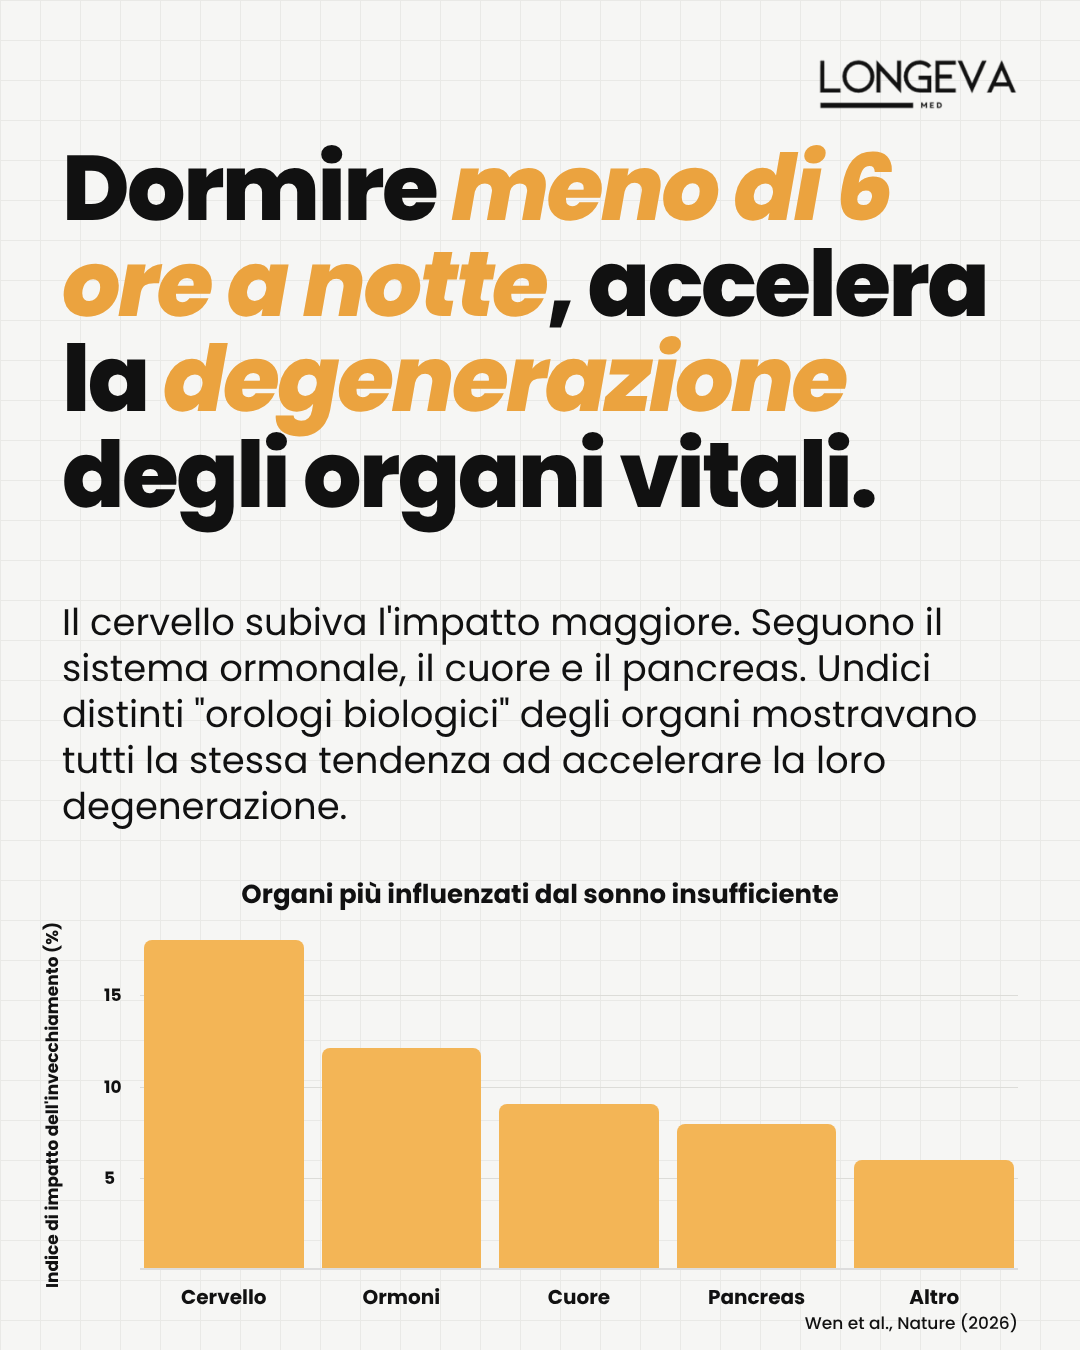
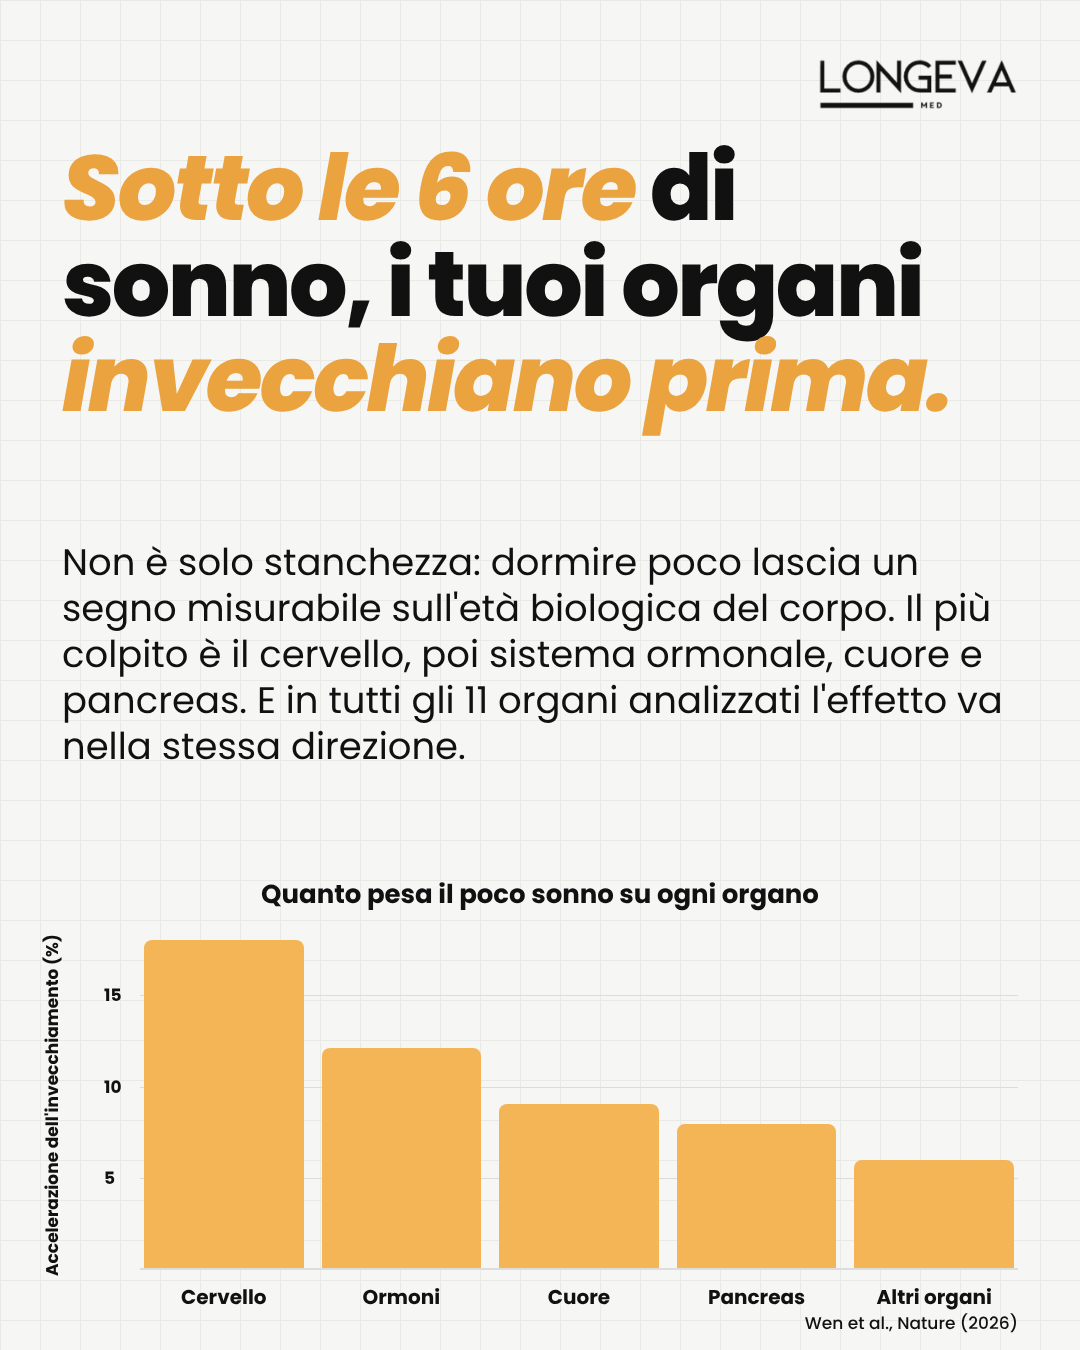
Rewrite copy of light sleep post
Claude-Session: https://claude.ai/code/session_015LaDtP4gz4C3ymXWeKsn2x

diff --git a/output/longevamed-sonno/post-chiaro.html b/output/longevamed-sonno/post-chiaro.html
@@ -15,7 +15,7 @@ body{font-family:'Poppins',sans-serif}
 .logo .u b{font-weight:500;font-size:9px;letter-spacing:2px}
 h1{position:absolute;left:62px;right:62px;top:140px;font-weight:800;font-size:92px;line-height:1.04;letter-spacing:-2.5px}
 h1 em{color:var(--goldtxt);font-style:italic}
-.lead{position:absolute;left:62px;right:62px;top:600px;font-size:37px;line-height:1.24;font-weight:400}
+.lead{position:absolute;left:62px;right:62px;top:540px;font-size:37px;line-height:1.24;font-weight:400}
 .ct{position:absolute;top:875px;left:0;right:0;text-align:center;font-size:26px;font-weight:700}
 .chart{position:absolute;left:140px;right:62px;top:940px;height:330px;border-bottom:2px solid #ddd}
 .grid{position:absolute;left:0;right:0;border-top:1px solid #dcdcd8}
@@ -29,10 +29,10 @@ h1 em{color:var(--goldtxt);font-style:italic}
 </style></head><body>
 <section class="slide" id="p">
   <img class="logo" src="logo-nero.png" alt="LONGEVA MED">
-  <h1>Dormire <em>meno di 6 ore a notte</em>, accelera la <em>degenerazione</em> degli organi vitali.</h1>
-  <p class="lead">Il cervello subiva l'impatto maggiore. Seguono il sistema ormonale, il cuore e il pancreas. Undici distinti "orologi biologici" degli organi mostravano tutti la stessa tendenza ad accelerare la loro degenerazione.</p>
-  <div class="ct">Organi più influenzati dal sonno insufficiente</div>
-  <div class="yt">Indice di impatto dell'invecchiamento (%)</div>
+  <h1><em>Sotto le 6 ore</em> di sonno, i tuoi organi <em>invecchiano prima.</em></h1>
+  <p class="lead">Non è solo stanchezza: dormire poco lascia un segno misurabile sull'età biologica del corpo. Il più colpito è il cervello, poi sistema ormonale, cuore e pancreas. E in tutti gli 11 organi analizzati l'effetto va nella stessa direzione.</p>
+  <div class="ct">Quanto pesa il poco sonno su ogni organo</div>
+  <div class="yt">Accelerazione dell'invecchiamento (%)</div>
   <div class="chart">
     <!-- scala 0–18 su 330px -->
     <div class="grid" style="top:55px"></div><div class="yl" style="top:55px">15</div>
@@ -46,6 +46,6 @@ h1 em{color:var(--goldtxt);font-style:italic}
       <div class="bar" style="height:33%"></div>
     </div>
   </div>
-  <div class="lbls"><span>Cervello</span><span>Ormoni</span><span>Cuore</span><span>Pancreas</span><span>Altro</span></div>
+  <div class="lbls"><span>Cervello</span><span>Ormoni</span><span>Cuore</span><span>Pancreas</span><span>Altri organi</span></div>
   <div class="src">Wen et al., Nature (2026)</div>
 </section></body></html>
